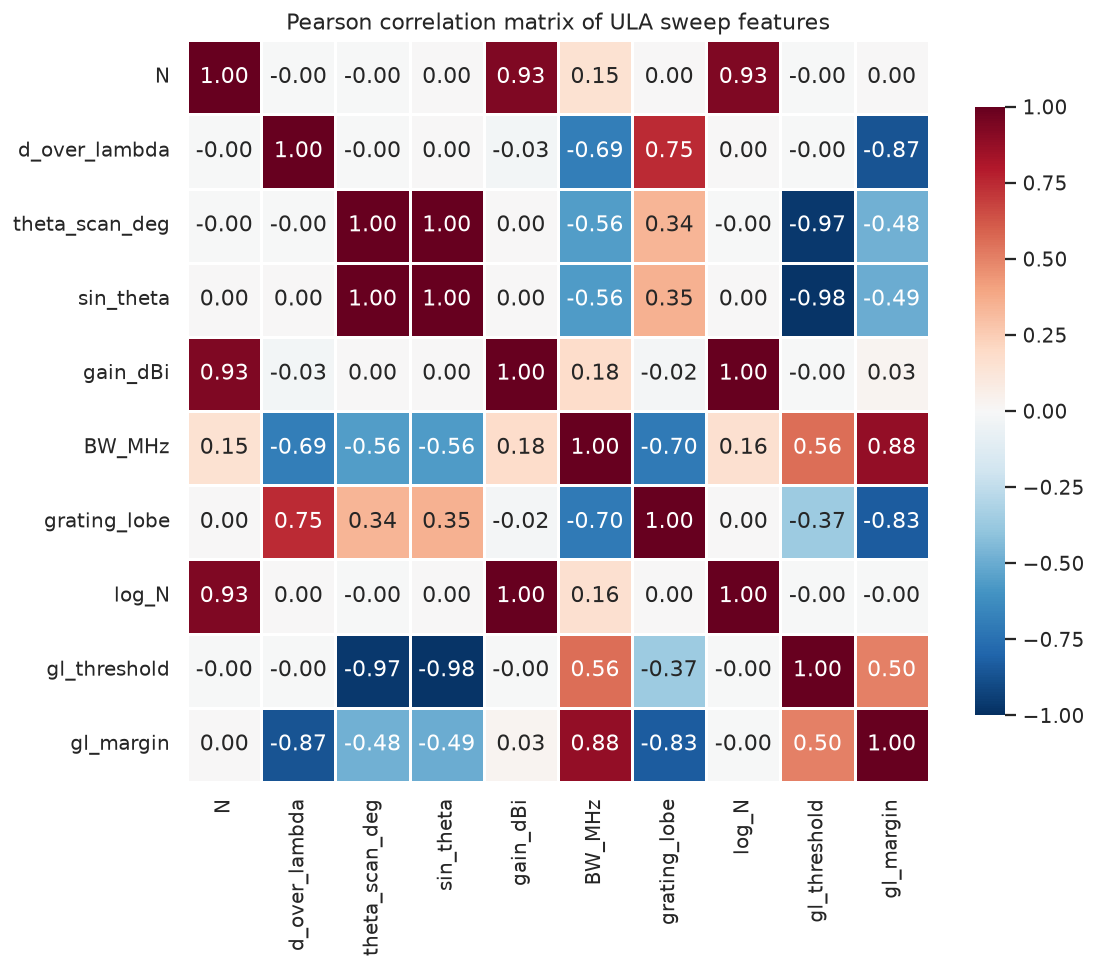
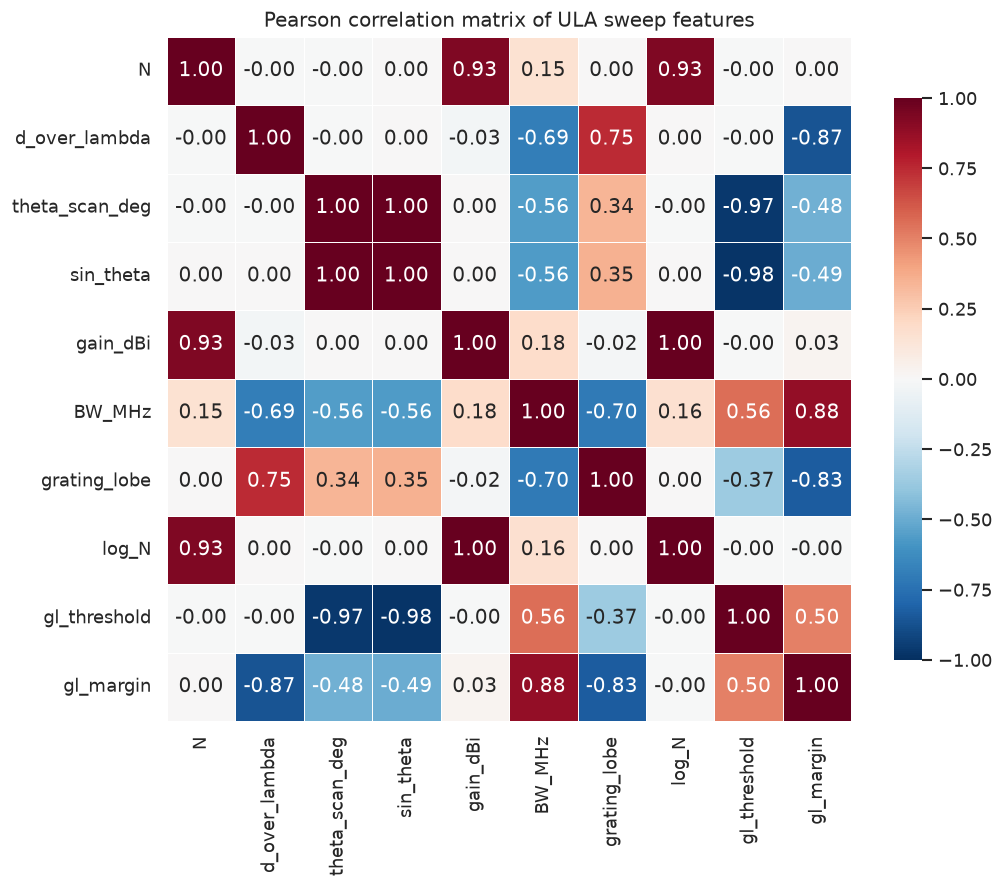
Final: README and requirements.txt added

diff --git a/README.md b/README.md
@@ -318,8 +318,10 @@ python src/phase5_verification.py      # prints PASS/FAIL for all 37 checks (exi
 jupyter notebook notebooks/phase2_eda.ipynb
 ```
 
-Everything is seeded with `random_state = 42`, so results are bit-for-bit reproducible. Total runtime
-is well under a minute on a laptop CPU.
+Everything is seeded with `random_state = 42`. Re-running the pipeline reproduces
+`data/array_sweep_data.csv`, every figure and every **metric** in `results/*.csv` bit-for-bit; the only
+column that changes between runs is `fit_seconds`, which records wall-clock training time by design.
+Total runtime is well under a minute on a laptop CPU.
 
 ---
 
